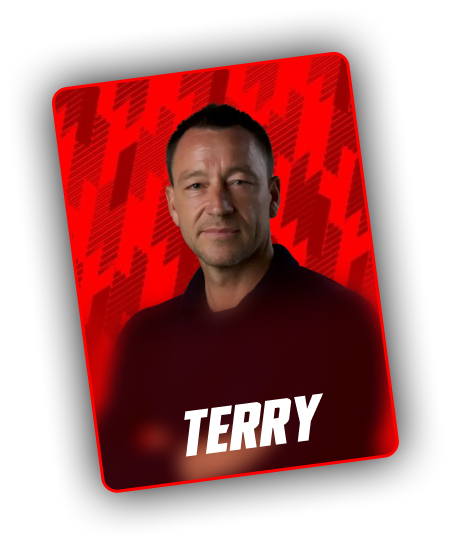
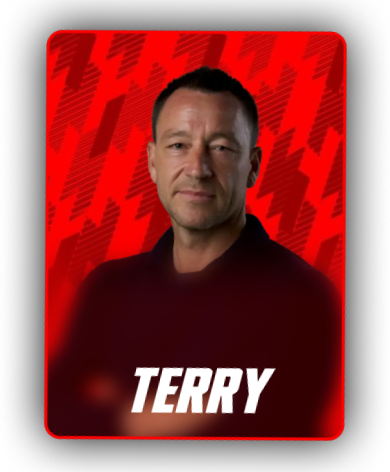
Cards Animation

diff --git a/src/component/Pickyoursquad.jsx b/src/component/Pickyoursquad.jsx
@@ -1,114 +1,96 @@
-import React, { useState, useEffect, useRef } from "react";
+import React, { useEffect, useState } from "react";
 import { motion, AnimatePresence } from "framer-motion";
 import { FaUserCircle } from "react-icons/fa";
 import { RiFootballLine } from "react-icons/ri";
 
 const Pickyoursquad = () => {
-  const [expanded, setExpanded] = useState(false);
-  const [centerX, setCenterX] = useState(0);
-  const containerRef = useRef(null);
+  const [step, setStep] = useState(0);
 
-  // Toggle expansion
+  // Control the looped steps
   useEffect(() => {
-    const interval = setInterval(() => {
-      setExpanded((prev) => !prev);
-    }, 5000);
-    return () => clearInterval(interval);
-  }, []);
+    let timeouts = [];
 
-  // Calculate centerX dynamically from container width
-  useEffect(() => {
-    const updateCenterX = () => {
-      if (containerRef.current) {
-        const rect = containerRef.current.getBoundingClientRect();
-        setCenterX(rect.width / 2);
-      }
-    };
+    // Step 0: Reset
+    if (step === 0) {
+      timeouts.push(setTimeout(() => setStep(1), 500)); // Ball drop
+    }
 
-    updateCenterX();
-    window.addEventListener("resize", updateCenterX);
-    return () => window.removeEventListener("resize", updateCenterX);
-  }, []);
+    // Step 1: Ball dropped, show users
+    if (step === 1) {
+      timeouts.push(setTimeout(() => setStep(2), 2500)); // Show users
+    }
 
-  const userVariants = {
-    hidden: {
-      opacity: 0,
-      scale: 0,
-    },
-    visible: (i) => ({
-      opacity: 1,
-      scale: 1,
-      transition: {
-        type: "spring",
-        stiffness: 500,
-        damping: 20,
-        delay: 0.05 * i,
-      },
-    }),
-    exit: {
-      opacity: 0,
-      scale: 0,
-      transition: { duration: 0.3 },
-    },
-  };
+    // Step 2: All shown, wait before reset
+    if (step === 2) {
+      timeouts.push(setTimeout(() => setStep(0), 3000)); // Restart
+    }
 
-  const radius = 80;
-  const centerY = expanded ? 100 : 80;
-  const userCount = 6;
-
-  const userPositions = Array.from({ length: userCount }, (_, i) => {
-    const angle = (i / userCount) * 2 * Math.PI;
-    const x = centerX + radius * Math.cos(angle);
-    const y = centerY + radius * Math.sin(angle);
-    return { left: x, top: y };
-  });
+    return () => timeouts.forEach(clearTimeout);
+  }, [step]);
 
   return (
-    <motion.div
-      ref={containerRef}
-      className="bg-[#090909] flex justify-center p-6 rounded-lg text-center w-full max-w-md mx-auto relative h-[320px]"
-      initial={{ scale: 1 }}
-      whileHover={{ scale: 1.02 }}
-      transition={{ type: "spring", stiffness: 300 }}
-    >
-      {/* Center Icon */}
-      <motion.div
-        className="absolute left-1/2 transform -translate-x-1/2 z-10"
-        animate={{ top: expanded ? 100 : 80 }}
-        transition={{ type: "spring", stiffness: 500 }}
-      >
-        <div className="bg-gray-700 h-8 w-8 rounded-full flex items-center justify-center">
-          <RiFootballLine className="text-white" />
-        </div>
-      </motion.div>
+    <div className="bg-[#090909] flex flex-col items-center justify-center text-center p-6 rounded-lg w-full max-w-md mx-auto relative h-[320px] overflow-hidden">
+      
+      {/* Ball Icon Animation */}
+      <AnimatePresence>
+        {step >= 1 && (
+          <motion.div
+            key="ball"
+            initial={{ y: -100, opacity: 0 }}
+            animate={{ y: 0, opacity: 1 }}
+            exit={{ opacity: 0 }}
+            transition={{ duration: 0.6, ease: "easeOut" }}
+            className="mb-6"
+          >
+            <div className="bg-gray-800 h-10 w-10 rounded-full flex items-center justify-center">
+              <RiFootballLine className="text-white text-lg" />
+            </div>
+          </motion.div>
+        )}
+      </AnimatePresence>
 
-      {/* User Icons Around the Ball */}
-      <div className="absolute inset-0">
-        <AnimatePresence>
-          {expanded &&
-            userPositions.map((pos, i) => (
+      {/* User Icons - 2 rows of 3 */}
+      <AnimatePresence>
+        {step === 2 && (
+          <motion.div
+            key="users"
+            className="grid grid-cols-3 gap-14 mb-4"
+            initial="hidden"
+            animate="visible"
+            exit="hidden"
+            variants={{
+              hidden: {},
+              visible: {
+                transition: {
+                  staggerChildren: 0.15,
+                },
+              },
+            }}
+          >
+            {Array.from({ length: 6 }).map((_, i) => (
               <motion.div
                 key={i}
-                style={{
-                  top: pos.top,
-                  left: pos.left,
-                  position: "absolute",
-                  transform: "translate(-50%, -50%)",
+                variants={{
+                  hidden: { opacity: 0, y: 20 },
+                  visible: {
+                    opacity: 1,
+                    y: 0,
+                    transition: {
+                      duration: 0.4,
+                      ease: "easeOut",
+                    },
+                  },
                 }}
-                custom={i}
-                variants={userVariants}
-                initial="hidden"
-                animate="visible"
-                exit="exit"
               >
-                <FaUserCircle className="text-green-400 text-xl" />
+                <FaUserCircle className="text-green-400 text-2xl" />
               </motion.div>
             ))}
-        </AnimatePresence>
-      </div>
+          </motion.div>
+        )}
+      </AnimatePresence>
 
-      {/* Title & Description */}
-      <div className="absolute bottom-6 w-full text-center px-4">
+      {/* Text */}
+      <div className="text-center absolute bottom-6 w-full px-4">
         <h3 className="text-xl font-semibold text-white">Pick Your Squad</h3>
         <p className="text-gray-400 text-[12px] mt-1 leading-relaxed">
           Build your dream team by handpicking top ballers
@@ -116,7 +98,7 @@ const Pickyoursquad = () => {
           for your ultimate fantasy league squad!
         </p>
       </div>
-    </motion.div>
+    </div>
   );
 };
 

diff --git a/src/component/StackedCards.jsx b/src/component/StackedCards.jsx
@@ -1,53 +1,80 @@
-import React, { useEffect } from "react";
+import React, { useEffect, useState } from "react";
 import { motion, useAnimation } from "framer-motion";
-import Humble from "../assets/image/Humble.png";
-import Sharky from "../assets/image/Sharky.png";
-import Terry from "../assets/image/Terry.png";
-import Clint from "../assets/image/Clint.png";
-import Ethan from "../assets/image/Ethan.png";
+import Humble from "../assets/image/Humble1.png";
+import Sharky from "../assets/image/Sharky2.png";
+import Terry from "../assets/image/Terry1.png";
+import Clint from "../assets/image/Clint1.png";
+import Ethan from "../assets/image/Ethan1.png";
 
-const cards = [Humble, Sharky, Terry, Clint, Ethan];
+const fullCards = [Ethan, Clint, Humble, Terry, Sharky];
 
 const StackedCards = () => {
   const controls = useAnimation();
+  const [cards, setCards] = useState(fullCards);
+
+  useEffect(() => {
+    // Responsively trim the card list to 3 if screen is below 768px
+    const updateCardCount = () => {
+      if (window.innerWidth < 768) {
+        setCards(fullCards.slice(-3)); // Show last 3 cards (front-most)
+      } else {
+        setCards(fullCards);
+      }
+    };
+
+    updateCardCount(); // initial
+    window.addEventListener("resize", updateCardCount);
+    return () => window.removeEventListener("resize", updateCardCount);
+  }, []);
 
   useEffect(() => {
     async function runAnimation() {
-      // Step 1: Slide in from bottom
       await controls.start({
         y: 0,
         opacity: 1,
-        transition: { duration: 1, ease: "easeOut" },
+        transition: { duration: 1.2, ease: "easeOut" },
       });
 
-      // Step 2: Spread out
-      controls.start((i) => ({
-        x: i * 4,
-        y: i * 4,
-        rotate: i * 2,
-        transition: { duration: 0.8, delay: i * 0.1 },
-      }));
+      setTimeout(() => {
+        controls.start((i) => {
+          const centerIndex = cards.length - 1;
+          const offset = centerIndex - i;
+          const direction = offset % 2 === 0 ? 1 : -1;
+          const spreadDistance = Math.ceil(offset / 1) * 110 * direction; // tighter on small screens
+          const rotate = Math.ceil(offset / 2) * 6 * direction;
+          const vertical = Math.abs(offset) * 8;
+
+          return {
+            x: offset === 0 ? 0 : spreadDistance,
+            y: vertical,
+            rotate: offset === 0 ? 0 : rotate,
+            transition: {
+              duration: 0.8,
+              ease: "easeInOut",
+              delay: i * 0.1,
+            },
+          };
+        });
+      }, 5000);
     }
 
     runAnimation();
-  }, [controls]);
+  }, [controls, cards]);
 
   return (
-    <motion.div
-      initial={{ y: 100, opacity: 0 }}
-      animate={controls}
-      className="relative w-[180px] h-[260px] mx-auto"
-    >
+    <div className="relative mx-auto w-[250px] h-[320px] sm:w-[280px] sm:h-[350px] md:w-[300px] md:h-[380px] lg:w-[320px] lg:h-[400px]">
       {cards.map((src, i) => (
         <motion.img
           key={i}
           src={src}
           custom={i}
-          className="absolute top-0 left-0 w-full rounded-lg shadow-lg"
-          style={{ zIndex: cards.length - i }}
+          initial={{ y: 100, opacity: 0, x: 0, rotate: 0 }}
+          animate={controls}
+          className="absolute top-0 left-0 w-full h-auto rounded-lg shadow-xl object-contain"
+          style={{ zIndex: i }}
         />
       ))}
-    </motion.div>
+    </div>
   );
 };
 

diff --git a/src/component/Hero.jsx b/src/component/Hero.jsx
@@ -9,14 +9,14 @@ import PlayerCards from "./PlayerCards";
 
 
 const Hero = () => {
-  const [step, setStep] = useState(0);
+  // const [step, setStep] = useState(0);
 
-  useEffect(() => {
-    const interval = setInterval(() => {
-      setStep((prev) => (prev < 2 ? prev + 1 : 2));
-    }, 4000);
-    return () => clearInterval(interval);
-  }, []);
+  // useEffect(() => {
+  //   const interval = setInterval(() => {
+  //     setStep((prev) => (prev < 2 ? prev + 1 : 2));
+  //   }, 4000);
+  //   return () => clearInterval(interval);
+  // }, []);
 
   return (
     <div className=" border-10 border-[#06FF8B] relative min-h-screen bg-black text-white">
@@ -37,12 +37,12 @@ const Hero = () => {
           <h1 className="text-5xl md:text-[96px] font-diacloneRegular leading-tight mb-4">
             OWN YOUR OWN BALLER LEAGUE
           </h1>
-          <p className="text-md md:text-xl mb-4">
+          <p className="text-md md:text-xl mb-6">
             Join the experience and become the manager of your very own ballers league team
           </p>
 
-          {step === 1 && <StackedCards />}
-          {step === 2 && <PlayerCards />}
+          <StackedCards />
+          {/* {step === 2 && <PlayerCards />} */}
 
           <div className="flex gap-4 justify-center items-center mt-8 mb-4">
             <button className="bg-white text-[10px] md:text-[24px] text-black py-3 px-4 md:py-3 md:px-8 flex gap-2 items-center justify-center">
@@ -56,7 +56,9 @@ const Hero = () => {
           </div>
         </main>
 
+        <div className="mt-10">
         <MarqueeBanner /> 
+        </div>
       </div>
     </div>
   );

diff --git a/src/component/MarqueeBanner.jsx b/src/component/MarqueeBanner.jsx
@@ -3,29 +3,27 @@ import React from "react";
 const MarqueeBanner = () => {
   return (
     <div className="overflow-hidden bg-[#06FF8B] border-10 border-[#06FF8B] text-black py-4 text-center mx-5 mb-4">
-      <div
-        className="flex whitespace-nowrap animate-marquee"
-        style={{
-          animation: "marquee 80s linear infinite",
-        }}
-      >
-        <h2 className="text-3xl md:text-6xl font-diaclone-expanded-italic px-4">
-          ULTIMATE BALLER-LEAGUE FANTASY
-        </h2>
-        <h2 className="text-3xl md:text-6xl font-diaclone-expanded-italic px-4">
-          ULTIMATE BALLER-LEAGUE FANTASY
-        </h2>
-        <h2 className="text-3xl md:text-6xl font-diaclone-expanded-italic px-4">
-          ULTIMATE BALLER-LEAGUE FANTASY
-        </h2>
+      <div className="relative w-full">
+        <div className="flex animate-marquee whitespace-nowrap w-max">
+          {/* Duplicate enough content to ensure seamless scroll */}
+          {Array(6).fill(
+            <h2 className="text-3xl md:text-6xl font-diaclone-expanded-italic px-8">
+              ULTIMATE BALLER-LEAGUE FANTASY
+            </h2>
+          )}
+        </div>
       </div>
 
-      {/* Inline style for marquee animation */}
+      {/* Inline animation style */}
       <style>
         {`
           @keyframes marquee {
             0% { transform: translateX(0%); }
             100% { transform: translateX(-50%); }
+          }
+
+          .animate-marquee {
+            animation: marquee 60s linear infinite;
           }
         `}
       </style>
